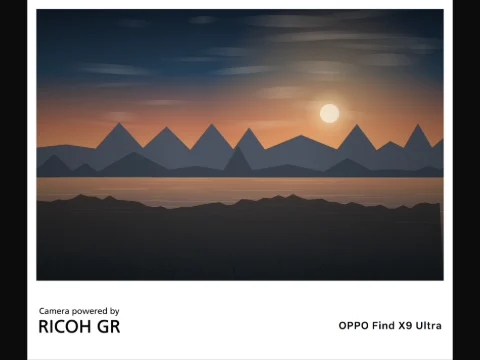
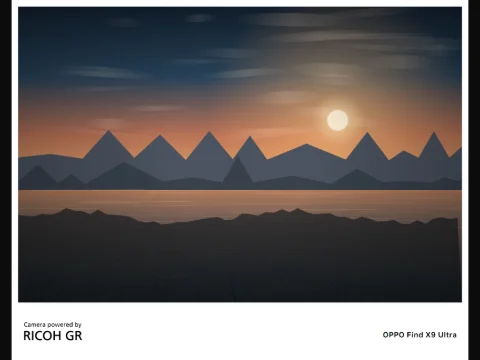
fix(camerapro): lay out baseImageSize on the photo short edge

diff --git a/src/renderer/src/core/system/layout.ts b/src/renderer/src/core/system/layout.ts
@@ -856,6 +856,14 @@ function anchorGroup(movable: PlacedBand[], photo: StockRect, W: number, H: numb
 }
 
 export function stockReferenceWidth(style: StockStyle, env: Pick<StockEnv, 'pw' | 'ph' | 'params'>): number {
+  // CameraPro's `baseImageSize` is the photo short edge, not its width. The
+  // vendor's own GR1/2/3 screenshots pin the bands at 19.9%/14.4%, 13.8% and
+  // 18.6% of a 4:3 photo's width — exactly what 95/70/90 units over 480 (360 ×
+  // 4/3) give. Scaling by the 360 width instead inflated every band and mark by
+  // 4/3, the "永远大一圈" mismatch. Portrait/square keep the declared 360.
+  if (style.referenceWidthMode === 'shortEdge') {
+    return style.referenceWidth * Math.max(1, env.pw / env.ph)
+  }
   // OPPO album Hasselblad 1 behaves like two design canvases: a 4:3 landscape
   // card is laid out on 560 units (60u band = 10.7% of the photo width, matching
   // the Find X6 Pro sample), while the 3:4 portrait card is the 360-unit design

diff --git a/src/renderer/src/core/system/ir.ts b/src/renderer/src/core/system/ir.ts
@@ -214,6 +214,13 @@ export interface StockStyle {
   nameEn: string
   placement: 'out' | 'in' | 'with' | 'overlay'
   referenceWidth: number
+  /**
+   * What `referenceWidth` measures. Gallery/Xiaomi configs declare a photo
+   * width; the CameraPro pack declares `baseImageSize` as the photo SHORT edge
+   * (360), so a 4:3 landscape lays out on 480 units, not 360. The extra unit
+   * width is derived from the render aspect in `stockReferenceWidth()`.
+   */
+  referenceWidthMode?: 'width' | 'shortEdge'
   margins: { left: number; top: number; right: number; bottom: number }
   background: string
   transparentBackground?: boolean
